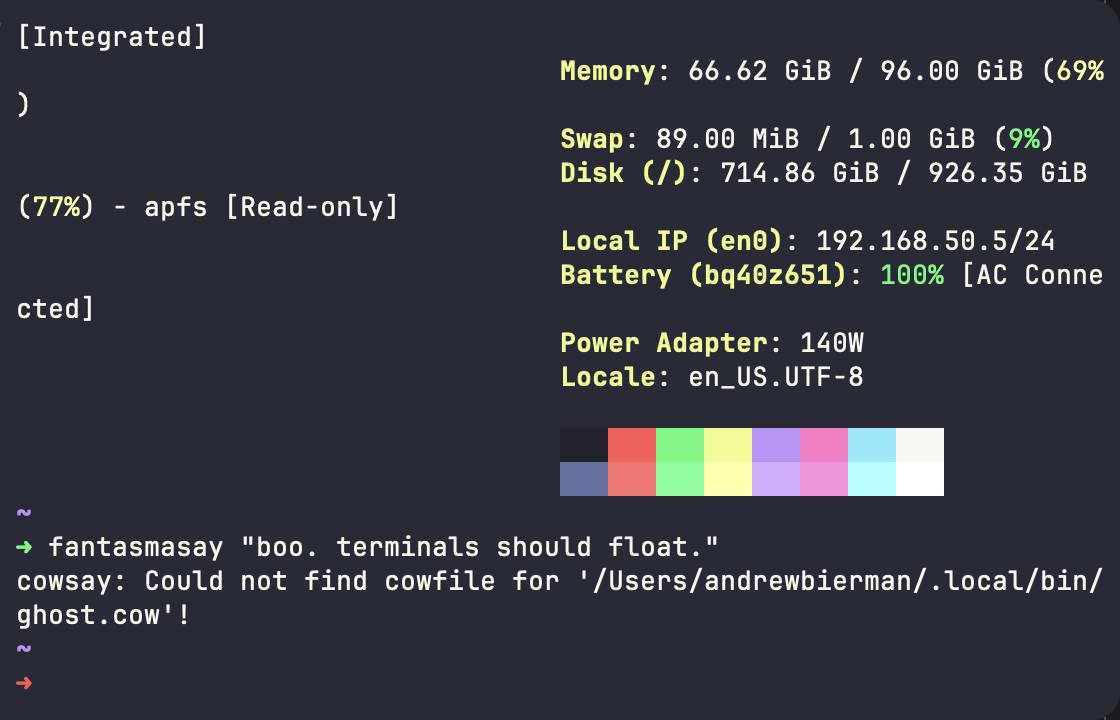
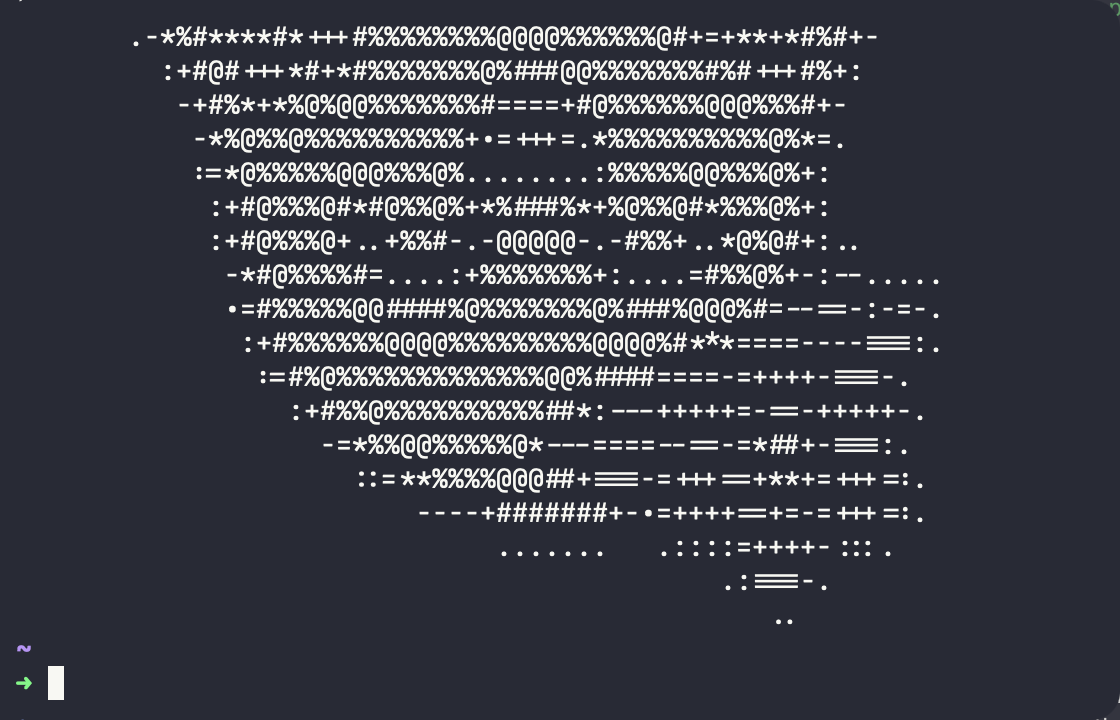
🐛 CLI frame flags: drop both dashes for state keys (dropFirst(2)); the single-dash keys never matched the writer (0.4.6)

diff --git a/Sources/Fantasma/main.swift b/Sources/Fantasma/main.swift
@@ -17,7 +17,7 @@ for index in arguments.indices {
     let keys = ["--width", "--height", "--x", "--y"]
     if keys.contains(flag), index + 1 < arguments.count,
        let value = Int(arguments[index + 1]) {
-        pendingFrame[String(flag.dropFirst())] = value
+        pendingFrame[String(flag.dropFirst(2))] = value
         pendingFrameFile = "/tmp/fantasma-pending-frame"
     }
 }
